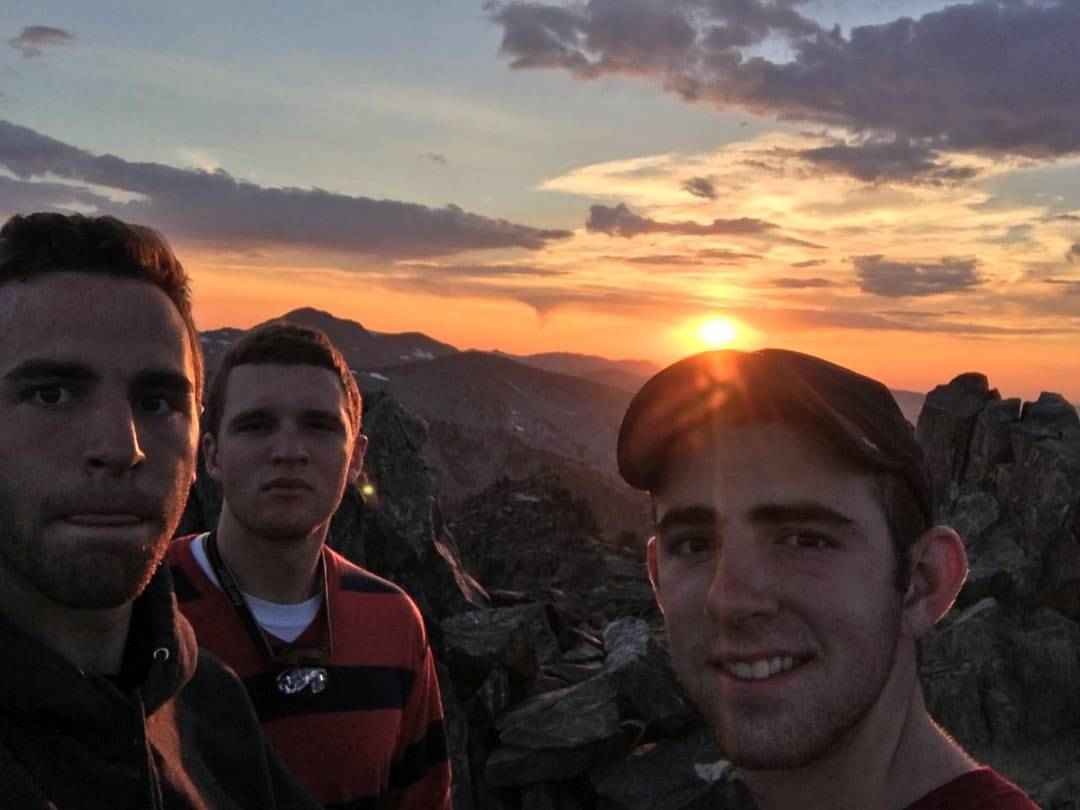
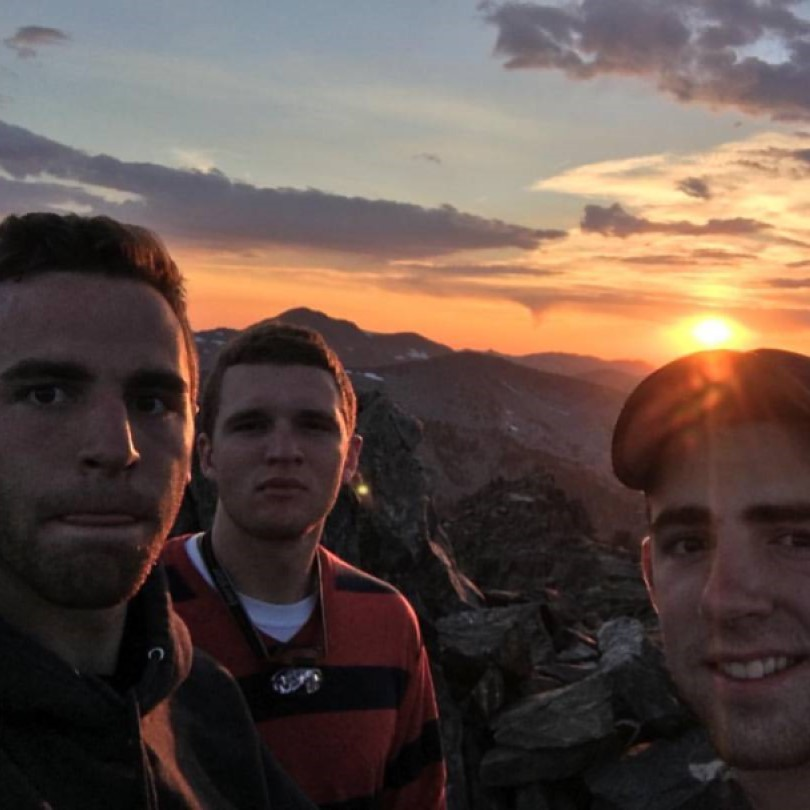
added mobile versions of all pictures

diff --git a/index.html b/index.html
@@ -52,7 +52,7 @@
           }
         </style>
         <section id="about-me" class="container">
-            <h2 class="row justify-content-center">About Me</h2> 
+            <h2 class="row justify-content-center"><a href="https://www.facebook.com/jacobp1794">About Me</a></h2> 
             <hr> 
             <div class="card-columns">
                 <div class="card">
